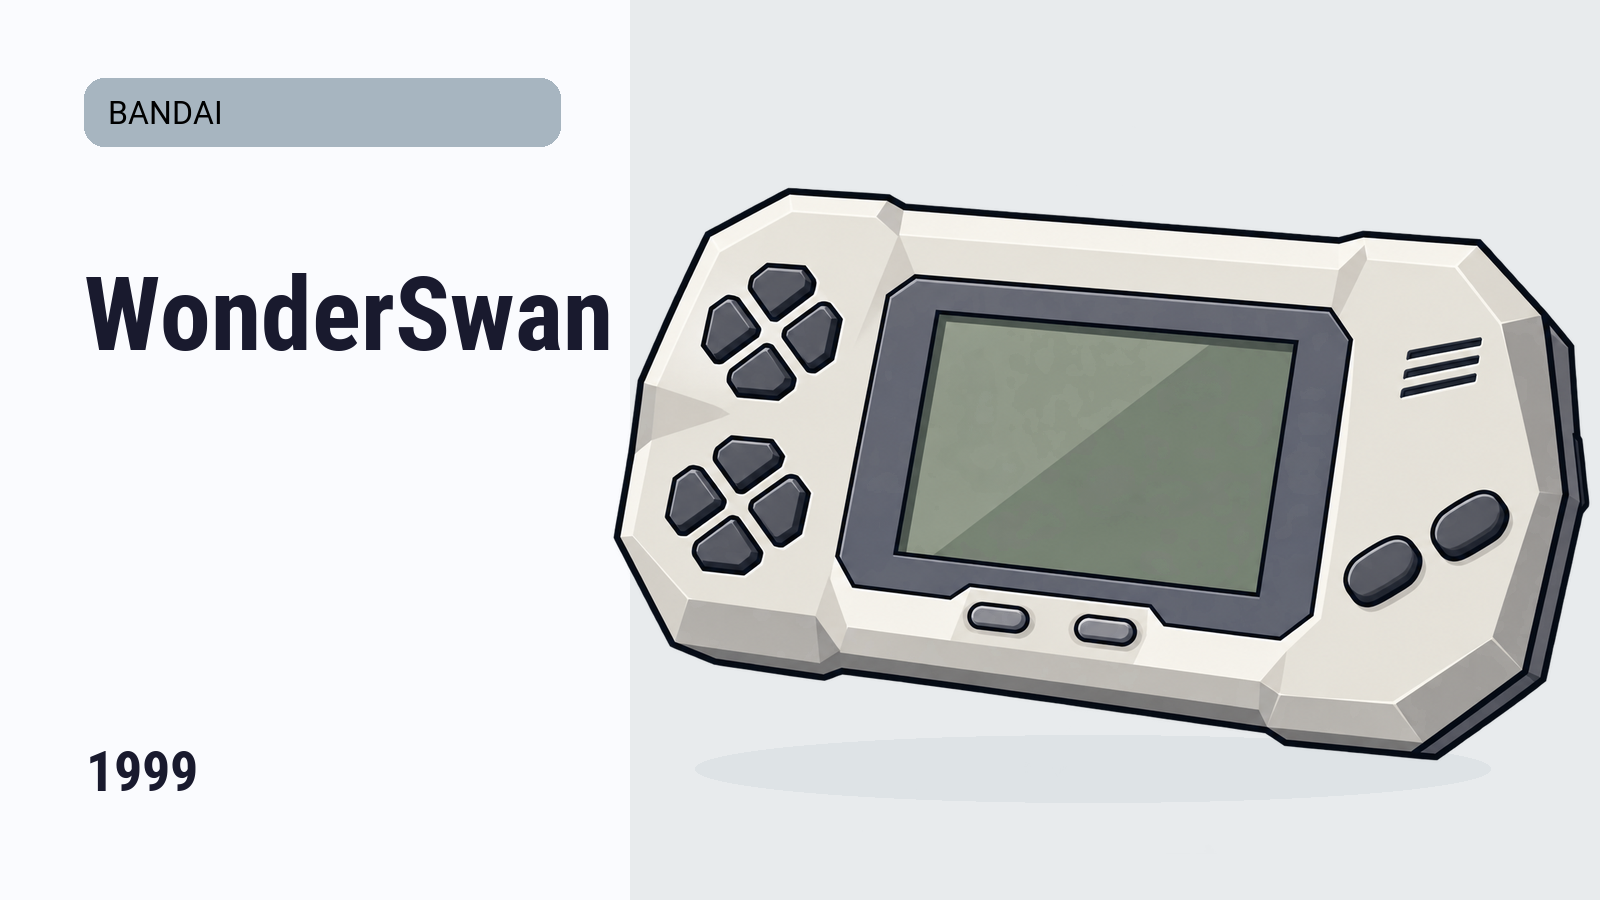
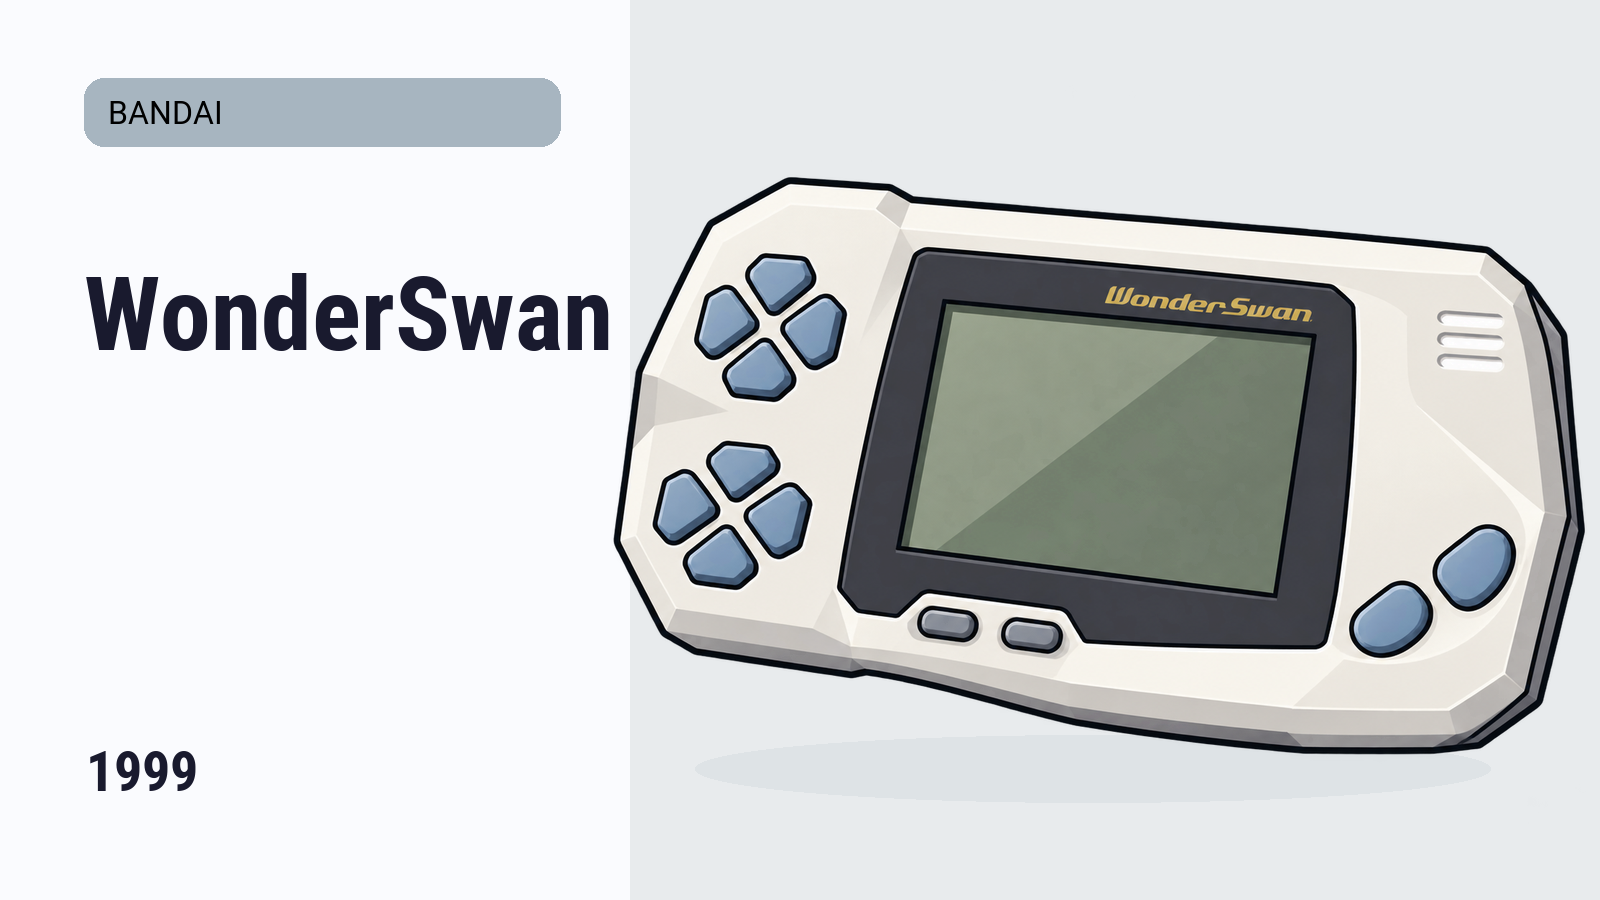
Refresh original monochrome WonderSwan artwork

Changed region(s): [[0.375, 0.1867, 1.0, 0.8711]]

diff --git a/README.md b/README.md
@@ -167,7 +167,7 @@ With updates on, an activated Thor checks this repository's latest release at mo
 
 ## Artwork
 
-The 68 artwork entries include Neo Geo Pocket, Neo Geo Pocket Color, PSP, PlayStation Vita, Saturn, PC Engine CD, Sega CD, Virtual Boy, regional variants, arcade platforms, and collections. Each has a distinct palette and matching upper artwork and lower card. These illustrations were created specifically for this theme; the transparent PNG sources are in [`multi-pop-thor/assets/systems`](multi-pop-thor/assets/systems/), and the card and hero PNGs are generated from them. The earlier SVG illustrations remain alongside them as legacy sources. The set also includes Wii, Wii U, Switch, 3DO, Amiga, Atari ST, ZX Spectrum, MSX, WonderSwan, TurboGrafx-16, and TurboGrafx-CD.
+The 68 artwork entries include Neo Geo Pocket, Neo Geo Pocket Color, PSP, PlayStation Vita, Saturn, PC Engine CD, Sega CD, Virtual Boy, regional variants, arcade platforms, and collections. Each has a distinct palette and matching upper artwork and lower card. These illustrations were created specifically for this theme; the transparent PNG sources are in [`multi-pop-thor/assets/systems`](multi-pop-thor/assets/systems/), and the card and hero PNGs are generated from them. The earlier SVG illustrations remain alongside them as legacy sources. The set also includes Wii, Wii U, Switch, 3DO, Amiga, Atari ST, ZX Spectrum, MSX, the original monochrome WonderSwan with its own pearl-white hardware illustration, TurboGrafx-16, and TurboGrafx-CD.
 
 ![All 68 Multi Pop artwork entries](docs/artwork-grid.png)
 
